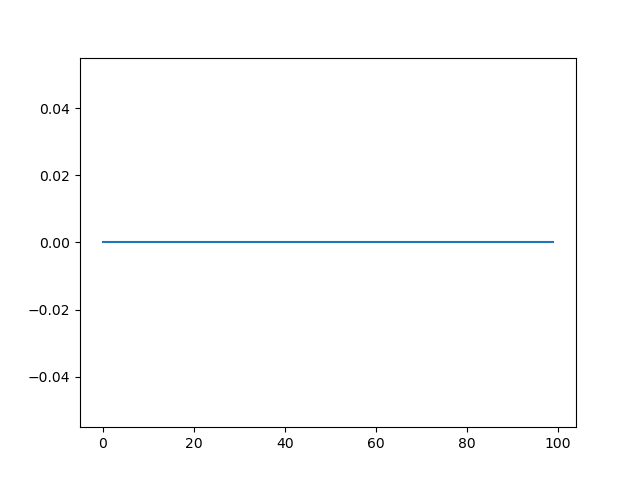
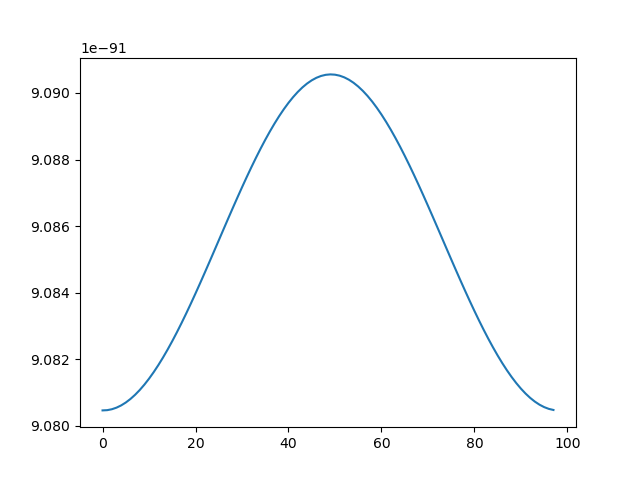
added 2d_diffusion(appropriate results achived)

diff --git a/lbm_D2Q9/python/2d_heat_Flow/main.py b/lbm_D2Q9/python/2d_heat_Flow/main.py
@@ -28,18 +28,39 @@ def sim_2d_prob():
     # plt.imshow(rho)
     # plt.show()
     for t in tqdm(range(nitr)):
-        for jy in range(ny):
-            for ix in range(nx):
-                rho[jy, ix] = np.sum(f[jy, ix, :])
 
-        cal_feq(feq, rho)
         # collision
-        for jy in range(ny):
-            for ix in range(nx):
+        for jy in range(1, ny - 1):
+            for ix in range(1, nx - 1):
                 f[jy, ix] = f[jy, ix] * (1.0 - OMEGA) + feq[jy, ix] * OMEGA
 
         # streaming
         f_temp = np.zeros_like(f)
+        # f_temp[jy, ix, 1]
+        # getting buffer nodes ready for streaming
+        # left
+        f[:, 0, 1] = f[:, nx - 2, 1]
+        f[:, 0, 5] = f[:, nx - 2, 5]
+        f[:, 0, 8] = f[:, nx - 2, 8]
+
+        # right
+        f[:, nx - 1, 3] = f[:, 1, 3]
+        f[:, nx - 1, 6] = f[:, 1, 6]
+        f[:, nx - 1, 7] = f[:, 1, 7]
+        # down
+        f[0, :, 8] = f[ny - 2, :, 8]
+        f[0, :, 4] = f[ny - 2, :, 4]
+        f[0, :, 7] = f[ny - 2, :, 7]
+        # up
+        f[ny - 1, :, 6] = f[1, :, 6]
+        f[ny - 1, :, 2] = f[1, :, 2]
+        f[ny - 1, :, 5] = f[1, :, 5]
+
+        # corners
+        f[0, 0, 5] = f[ny - 2, nx - 2, 5]
+        f[0, nx - 1, 6] = f[ny - 2, 1, 6]
+        f[ny - 1, 0, 8] = f[1, nx - 2, 8]
+        f[ny - 1, nx - 1, 7] = f[1, 1, 7]
 
         for jy in range(1, ny - 1):
             for ix in range(1, nx - 1):
@@ -53,34 +74,20 @@ def sim_2d_prob():
                 f_temp[jy, ix, 7] = f[jy + 1, ix + 1, 7]  # f7
                 f_temp[jy, ix, 8] = f[jy + 1, ix - 1, 8]  # f8
 
-        #     boundary(periodic)
-
-        # left
-        f_temp[:, 0, 1] = f_temp[:, nx - 1, 1]
-        f_temp[:, 0, 5] = f_temp[:, nx - 1, 5]
-        f_temp[:, 0, 8] = f_temp[:, nx - 1, 8]
-        # right
-        f_temp[:, nx - 1, 3] = f_temp[:, 0, 3]
-        f_temp[:, nx - 1, 6] = f_temp[:, 0, 6]
-        f_temp[:, nx - 1, 7] = f_temp[:, 0, 7]
-
-        # down
-        f_temp[0, :, 5] = f_temp[ny - 1, :, 5]
-        f_temp[0, :, 6] = f_temp[ny - 1, :, 6]
-        f_temp[0, :, 2] = f_temp[ny - 1, :, 2]
-
-        # up
-        f_temp[ny - 1, :, 7] = f_temp[0, :, 7]
-        f_temp[ny - 1, :, 4] = f_temp[0, :, 4]
-        f_temp[ny - 1, :, 8] = f_temp[0, :, 8]
         f[:] = f_temp
+        for jy in range(ny):
+            for ix in range(nx):
+                rho[jy, ix] = np.sum(f[jy, ix, :])
+
+        cal_feq(feq, rho)
 
     fig, ax = plt.subplots()
 
-    ax.plot(np.arange(0, nx, 1), rho[ny // 2, :])
+    # ignoring buffer nodes while plotting
+    ax.plot(np.arange(0, nx - 2, 1), rho[ny // 2, 1:-1])
     fig.savefig('results/1dplot.png')
 
-    ax.imshow(rho)
+    ax.imshow(rho[1:-1, 1:-1])
     fig.savefig('results/2dplot.png')
 
     plt.imshow(rho)
